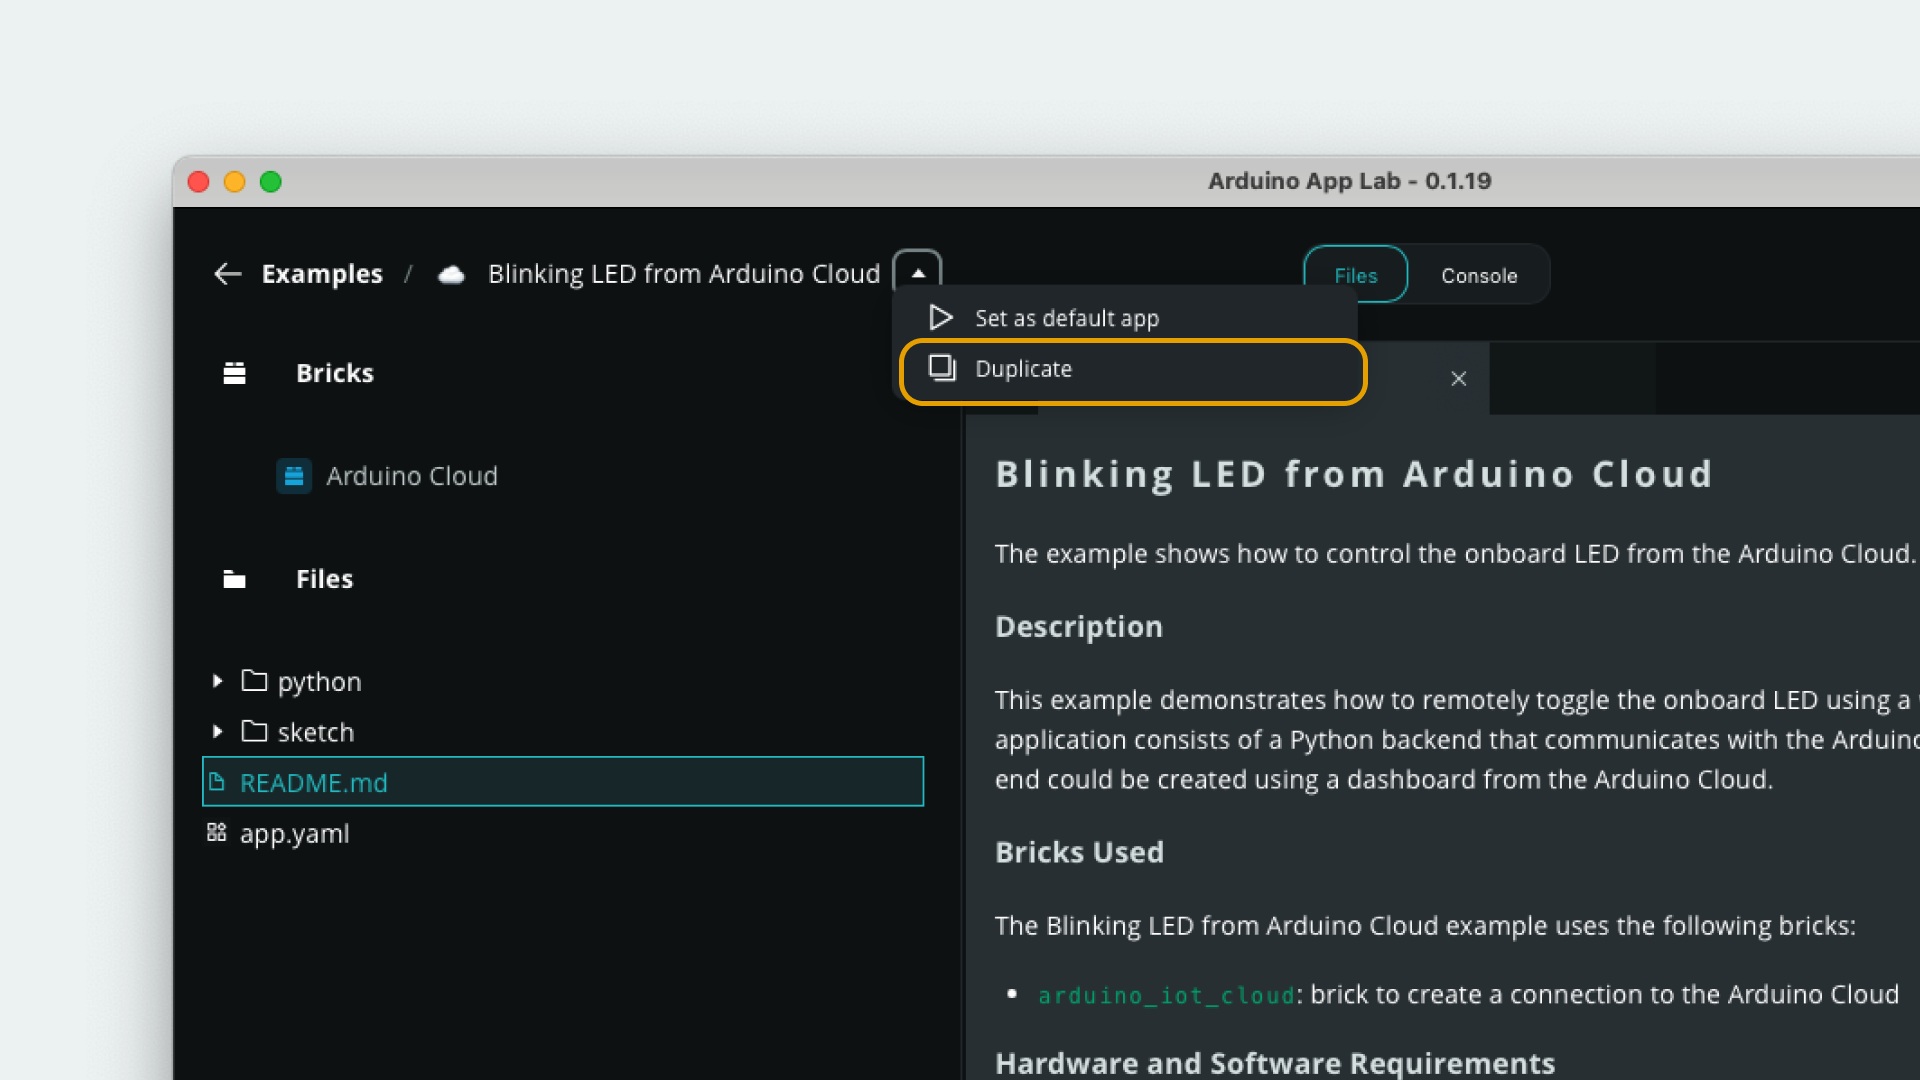
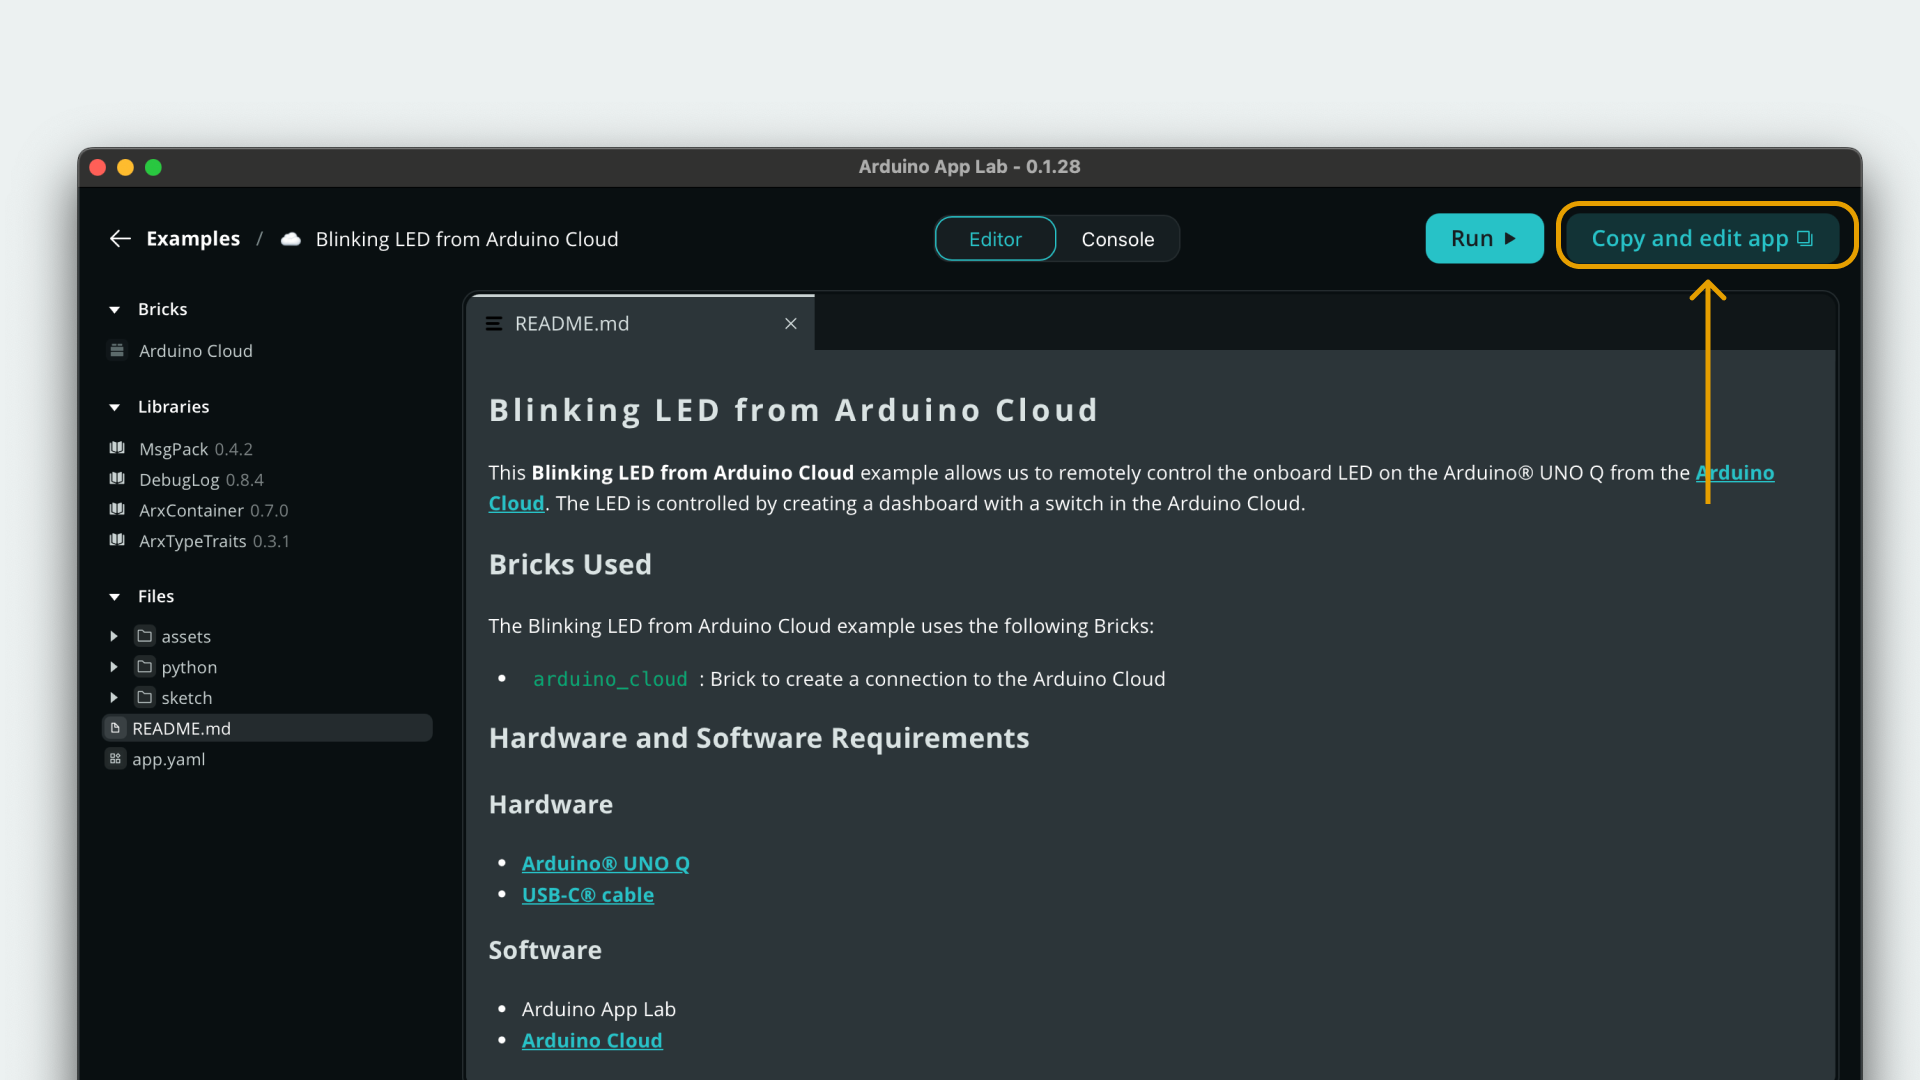
Update what is an app learn section content and duplicate example instructions to reflect current state

diff --git a/learn-docs/02.apps/apps.md b/learn-docs/02.apps/apps.md
@@ -1,7 +1,7 @@
 ---
 title: What is an App?
 description: Learn how Apps work, and how they run on the UNO Q.
-author: Karl Söderby
+author: Karl Söderby, Ernesto Voltaggio
 tags: [Apps, Bricks, Sketches, Python]
 icon: Group
 category: basic
@@ -18,13 +18,17 @@ Apps are launched as a package on our board, and only one App can run at the sam
 - **Sketch** - a sketch written in the Arduino language (C++) that runs on the microcontroller.
 
 In particular, the following files are considered the "core" files of an App.
-- A `main.py` - for writing code that will run on the Linux side.
-- A `sketch.ino` - for writing code that will run on the microcontroller side.
-- A `app.yaml` - configuration file for the App (this file automatically updates based on App configurations made, and cannot be edited).
+- A `python/main.py` - for writing code that will run on the Linux side.
+- A `sketch/sketch.ino` - for writing code that will run on the microcontroller side.
+- An `app.yaml` - configuration file for the App (managed by App Lab and tooling, and may be updated by API calls).
+- A `sketch.yaml` - sketch-side configuration file (managed by App Lab and tooling, and may be updated by API calls).
+
+> **Note:** the `python/` and `sketch/` folders are expected by convention. Renaming or removing them may prevent the App from running (for example missing entry points like `main.py` or `sketch.ino`).  
+> The `assets/` folder is optional and depends on the Bricks used (for example WebUI). It is not part of the standard App definition and can be omitted or overridden at Brick level.
 
 ![How Apps work](assets/launch-app.png)
 
-The **Python part** of the application is capable of running AI models, hosting a web server, or making calls to external services. 
+The **Python part** of the application is capable of running AI models, hosting a web server, or making calls to external services.
 
 The **sketch part** of the application handles interaction with sensors, LEDs, motors, and other electrical components.
 
@@ -59,7 +63,7 @@ def loop():
     global led_state
     time.sleep(1)
     led_state = not led_state
-    Bridge.call("set_led_state", led_state)():
+    Bridge.call("set_led_state", led_state)
 
 App.run(user_loop=loop)
 ```
@@ -88,7 +92,7 @@ After creating an App, it will be available under **"My Apps"**. To edit the App
 Built-in examples cannot be edited, but if we want to start from an **existing example**, we can duplicate it.
 
 1. Navigate to the [Examples](/examples) tab and select an example.
-2. In the top-left, to the right of the App example name, click on the little arrow, and on **"Duplicate"**
+2. In the top-right, next to the Run button, click **"Copy and Edit App"**.
    ![Duplicate an example](assets/cloud-blink-duplicate.png)
 3. Name the App, and click on **"Create New"**.
 4. We will be redirected into a new App project, which is fully editable.
@@ -170,6 +174,8 @@ Below is the code for the microcontroller (Arduino/C++), which uses the `Arduino
 
 ```cpp
 #include "Arduino_RouterBridge.h"
+
+void set_led_state(bool state);
 
 void setup() {
     pinMode(LED_BUILTIN, OUTPUT);
